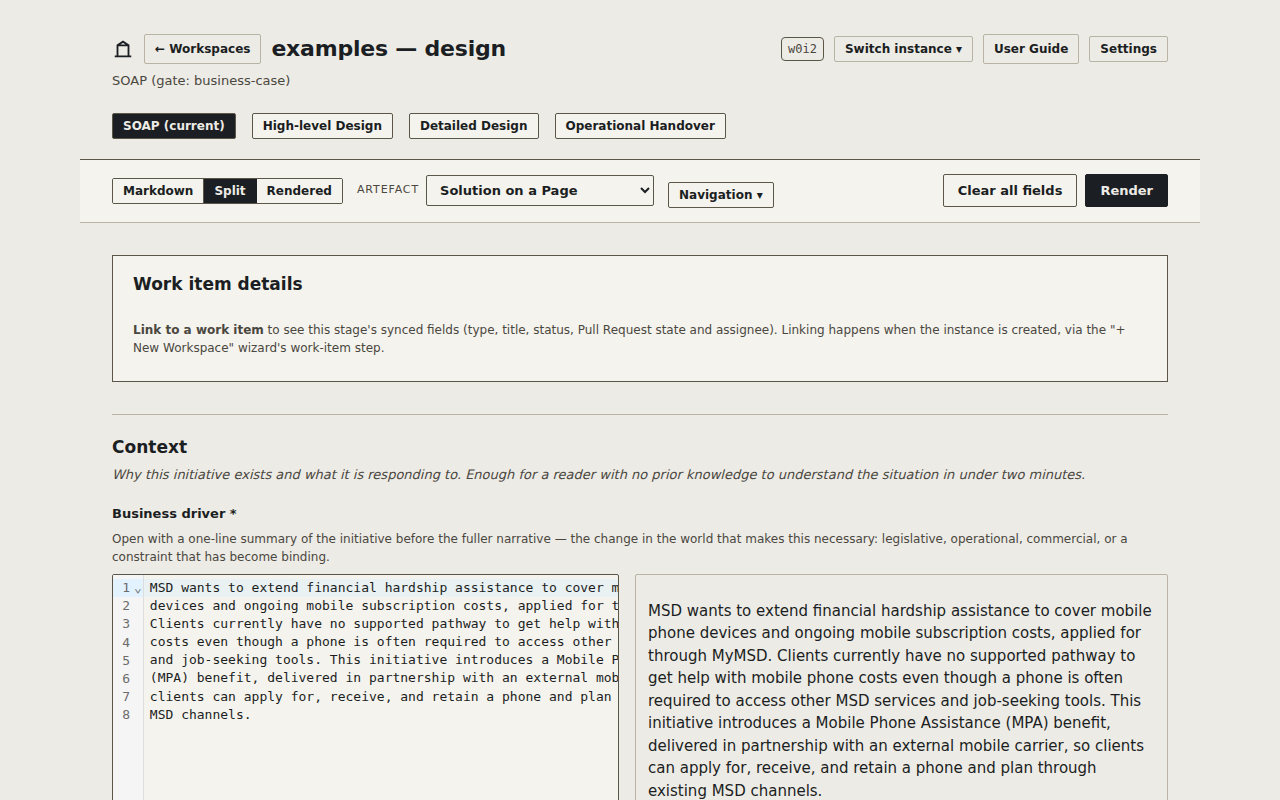
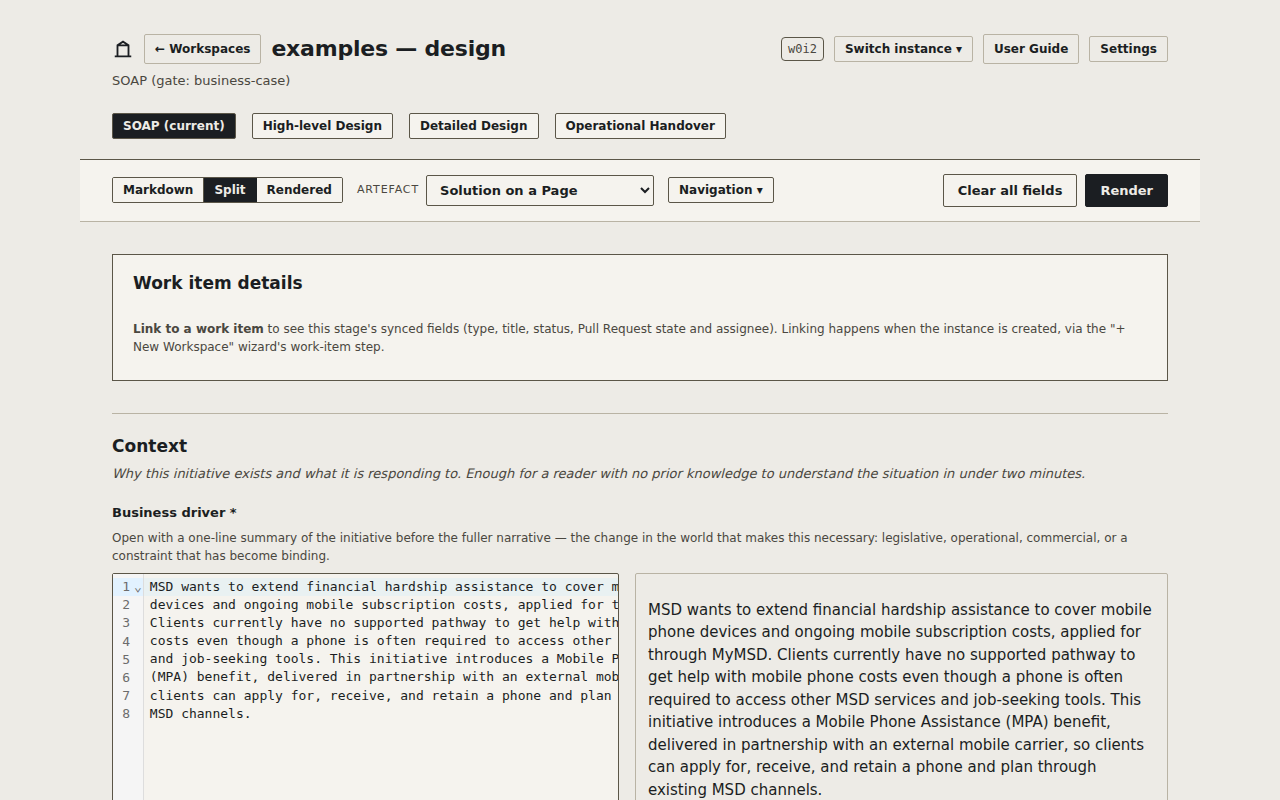
Merge pull request 22770 from wi-user-guide-image-lightbox into main

diff --git a/tests/user-guide.playwright.test.js b/tests/user-guide.playwright.test.js
@@ -83,17 +83,10 @@ test('User Guide: loads markdown content, ordered navigation, and definition-bac
       assert.match(await page.locator('.guide-content').textContent(), /Request Approval/)
       assert.match(await page.locator('.guide-content').textContent(), /Workspace Settings/)
       const guideText = await page.locator('.guide-content').textContent()
-      assert.match(guideText, /Describe the initiative's context, proposed solution, team, estimates/)
-      assert.match(guideText, /Describe the proposed solution in enough detail to be approved before detailed design/)
-      assert.match(guideText, /Describe the architecture, integration, data, quality, security, risk/)
-      assert.match(guideText, /Record what was built and the information needed to hand it over for operation/)
-      assert.match(guideText, /Summarise the initiative's context, solution, team and estimates for the business case/)
-      assert.match(guideText, /Provide a fuller summary with detailed scope/)
-      assert.match(guideText, /Present the proposed solution, alternatives, risks and open questions for approval/)
-      assert.match(guideText, /Describe the complete solution architecture and its requirements/)
-      assert.match(guideText, /Describe the solution's design and operational readiness for the teams/)
-      assert.match(guideText, /Record what was built and the final handover information needed for operational use/)
-      assert.match(guideText, /context\.driver/)
+      // The guide describes concepts at a high level and no longer enumerates the
+      // design definition's specific stages, artefacts, modules or fields.
+      assert.doesNotMatch(guideText, /Its exit gate is/)
+      assert.doesNotMatch(guideText, /context\.driver/)
       // New subsections added in WI222 second pass
       const h3Texts = await page.locator('.guide-content h3').allTextContents()
       assert.ok(h3Texts.includes('Choosing a definition version'))
@@ -126,6 +119,41 @@ test('User Guide: loads markdown content, ordered navigation, and definition-bac
         assert.match(ct, /image\/png/, `fetching ${src} should return image/png, got ${ct}`)
       }
       assert.deepEqual(pageErrors, [])
+    } finally {
+      await browser.close()
+    }
+  })
+})
+
+test('User Guide: screenshots fit the content column and open in a click-to-expand lightbox', async () => {
+  await withRunningServer(async (base) => {
+    const browser = await launchBrowser()
+    try {
+      const page = await browser.newPage()
+      page.setDefaultTimeout(DEFAULT_TIMEOUT)
+      await page.setViewportSize({ width: 1024, height: 800 })
+      await page.goto(`${base}/user-guide`)
+      await page.waitForSelector('.guide-content img', { timeout: DEFAULT_TIMEOUT })
+
+      // Every screenshot fits inside its content column, and the page never scrolls sideways.
+      const { maxImgWidth, contentWidth } = await page.evaluate(() => {
+        const imgs = [...document.querySelectorAll('.guide-content img')]
+        return {
+          maxImgWidth: Math.max(...imgs.map((img) => img.getBoundingClientRect().width)),
+          contentWidth: document.querySelector('.guide-content').getBoundingClientRect().width,
+        }
+      })
+      assert.ok(maxImgWidth <= contentWidth + 1, `widest image ${maxImgWidth}px should fit content column ${contentWidth}px`)
+      assert.ok(
+        await page.evaluate(() => document.documentElement.scrollWidth <= document.documentElement.clientWidth + 1),
+        'the guide page must not scroll horizontally',
+      )
+
+      // Clicking a screenshot opens it in the lightbox; Escape closes it.
+      await page.locator('.guide-content img').first().click()
+      await page.waitForSelector('.guide-lightbox img', { timeout: 5_000 })
+      await page.keyboard.press('Escape')
+      await page.waitForSelector('.guide-lightbox', { state: 'detached', timeout: 5_000 })
     } finally {
       await browser.close()
     }

diff --git a/web/pages/user-guide.js b/web/pages/user-guide.js
@@ -1,5 +1,5 @@
 import { html } from 'htm/preact'
-import { useEffect, useState } from 'preact/hooks'
+import { useEffect, useRef, useState } from 'preact/hooks'
 import { apiFetch } from '../lib/apiFetch.js'
 import { renderMarkdown } from '../lib/markdown.js'
 
@@ -42,6 +42,9 @@ function GuideNavigation() {
 export function UserGuidePage() {
   const [guide, setGuide] = useState(null)
   const [error, setError] = useState(null)
+  // The screenshot the reader clicked, shown full-size in an overlay. `null` when closed.
+  const [zoomed, setZoomed] = useState(null)
+  const contentRef = useRef(null)
 
   useEffect(() => {
     let active = true
@@ -62,6 +65,34 @@ export function UserGuidePage() {
     }
   }, [])
 
+  // The guide body is injected as raw HTML, so its <img> elements can't carry
+  // preact props — decorate them for keyboard/AT once the markup is in the DOM.
+  useEffect(() => {
+    if (guide === null || !contentRef.current) return
+    for (const img of contentRef.current.querySelectorAll('img')) {
+      img.setAttribute('role', 'button')
+      img.setAttribute('tabindex', '0')
+      if (!img.getAttribute('title')) img.setAttribute('title', 'Click to enlarge')
+    }
+  }, [guide])
+
+  useEffect(() => {
+    if (!zoomed) return
+    function onKey(e) {
+      if (e.key === 'Escape') setZoomed(null)
+    }
+    window.addEventListener('keydown', onKey)
+    return () => window.removeEventListener('keydown', onKey)
+  }, [zoomed])
+
+  function activateImage(e) {
+    const img = e.target?.closest?.('img')
+    if (!img || !contentRef.current?.contains(img)) return
+    if (e.type === 'keydown' && e.key !== 'Enter' && e.key !== ' ') return
+    if (e.type === 'keydown') e.preventDefault()
+    setZoomed({ src: img.currentSrc || img.src, alt: img.alt || '' })
+  }
+
   return html`
     <header class="guide-header">
       <div class="brand">
@@ -77,8 +108,25 @@ export function UserGuidePage() {
           ? html`<p class="load-error">Failed to load: ${error}</p>`
           : guide === null
             ? html`<p class="loading">Loading User Guide…</p>`
-            : html`<div dangerouslySetInnerHTML=${{ __html: guide }} />`}
+            : html`<div
+                ref=${contentRef}
+                onClick=${activateImage}
+                onKeyDown=${activateImage}
+                dangerouslySetInnerHTML=${{ __html: guide }}
+              />`}
       </article>
     </main>
+    ${zoomed
+      ? html`<div
+          class="guide-lightbox"
+          role="dialog"
+          aria-modal="true"
+          aria-label=${zoomed.alt || 'Expanded screenshot'}
+          onClick=${() => setZoomed(null)}
+        >
+          <img src=${zoomed.src} alt=${zoomed.alt} />
+          <button type="button" class="guide-lightbox-close" aria-label="Close" onClick=${() => setZoomed(null)}>×</button>
+        </div>`
+      : null}
   `
 }

diff --git a/web/style.css b/web/style.css
@@ -493,6 +493,9 @@ button.btn:disabled { opacity: 0.4; cursor: not-allowed; }
 
 /* Stage navigation dropdown (WI232) — inline in ViewModeToolbar to the right of the artefact selector */
 .stage-navigation { margin: 0; display: inline-flex; align-items: center; }
+/* Neutralise .btn's default 0.5rem top/right margin so the trigger sits on the
+   same baseline as the segmented view-mode buttons (which reset it too). */
+.stage-navigation .btn { margin: 0; }
 .stage-navigation-dropdown { position: relative; display: inline-flex; }
 .stage-navigation-dropdown .menu {
   display: none;
@@ -1246,6 +1249,46 @@ input.text-field.has-error { border-color: var(--stamp-error-bg); }
 .guide-content ul { margin: 0 0 18px; padding-left: 22px; }
 .guide-content li { margin: 5px 0; }
 .guide-content code { font-family: var(--font-mono); font-size: 0.9em; }
+.guide-content img {
+  display: block;
+  max-width: 100%;
+  height: auto;
+  margin: 10px 0 22px;
+  border: var(--hairline) solid var(--line);
+  border-radius: var(--radius);
+  cursor: zoom-in;
+}
+.guide-content img:focus-visible { outline: 2px solid currentColor; outline-offset: 3px; }
+
+.guide-lightbox {
+  position: fixed;
+  inset: 0;
+  z-index: 1000;
+  display: flex;
+  align-items: center;
+  justify-content: center;
+  padding: 32px;
+  background: rgba(0, 0, 0, 0.82);
+  cursor: zoom-out;
+}
+.guide-lightbox img {
+  max-width: 100%;
+  max-height: 100%;
+  border-radius: var(--radius);
+  box-shadow: 0 12px 48px rgba(0, 0, 0, 0.5);
+}
+.guide-lightbox-close {
+  position: fixed;
+  top: 14px;
+  right: 20px;
+  padding: 6px 10px;
+  font-size: 26px;
+  line-height: 1;
+  color: #fff;
+  background: none;
+  border: none;
+  cursor: pointer;
+}
 
 @media (max-width: 760px) {
   .app-header .brand { flex-wrap: wrap; }

diff --git a/docs/user-guide/index.md b/docs/user-guide/index.md
@@ -47,7 +47,7 @@ Workspaces and instances can be archived — hidden from the dashboard's default
 
 ### Definition versions and the Definition Editor (experimental)
 
-Definitions are versioned. Version 1 of `design` is published and is the default for new instances; newer versions start as `draft`. Each version has its own `definition.yaml`, module specs, templates and `CHANGELOG.md`. Only the latest published version is used when no explicit version is requested; draft versions are opt-in via the wizard's version picker.
+Definitions are versioned. The first version of a definition is published and is the default for new instances; newer versions start as `draft`. Each version has its own `definition.yaml`, module specs, templates and `CHANGELOG.md`. Only the latest published version is used when no explicit version is requested; draft versions are opt-in via the wizard's version picker.
 
 The **Definition Editor** — linked from the Workspaces page header as **Definition Editor** — is an experimental, rudimentary screen for inspecting and editing definitions. It is explicitly experimental and rudimentary: the screen carries a disclaimer to that effect, and the editing experience is not yet at parity with hand-editing the YAML and templates.
 
@@ -67,15 +67,13 @@ A **Gate** is the decision point at the end of a Stage. A gate checks the artefa
 
 For a Workspace-backed Instance the gate is checked as part of the Work Item Detail card's **Check status** action; a local Instance checks it with **Check gate & sync work item**. See *Approval workflow* for the full sequence.
 
-The `design` Definition has these stages:
-
-<!-- GANTRY-DESIGN-STAGES -->
+A definition lists its stages, and the gate each one ends at, in its `definition.yaml`. The `design` definition, for instance, runs from initial shaping through high-level and detailed design to operational handover, each stage ending at its own gate.
 
 ## Modules & Fields
 
-A **Module** is a self-contained area of process content and the source of truth for that content. A Module is made up of **Fields**, which are the individual prompts shown in the editor. The `design` Definition combines those fields into documents later, rather than asking authors to maintain separate copies in each document.
+A **Module** is a self-contained area of process content and the source of truth for that content. A Module is made up of **Fields**, which are the individual prompts shown in the editor. A definition combines those fields into documents later, rather than asking authors to maintain separate copies in each document.
 
-For example, the `context` Module can ask for the initiative's driver, opportunity and scope. The `driver` Field records why the work is needed; it is not a separate document. In the same way, a security Module can capture the solution's security considerations in its own fields. Each field can have guidance and can be required at the gate where it matters.
+For example, one module might capture an initiative's context as separate fields — its driver, the opportunity, what is out of scope — and another might capture security considerations. A field is authored once and reused wherever an artefact needs it, never copied between documents. Each field can carry guidance and can be required only at the gate where it matters.
 
 You normally work through the editor's Module cards and save each Module as you complete it. The available Modules depend on the current Stage, while an artefact's own requirements decide whether that artefact is complete. This lets one set of content support multiple outputs without duplicating authoring work.
 
@@ -97,9 +95,7 @@ An **Artefact** is a rendered output such as a summary, design document or hando
 
 Each artefact declares the module or field content it `requires`. Those requirements determine whether that artefact is complete for its gate. Multiple artefacts can therefore render different views of the same modules without asking authors to duplicate content.
 
-The `design` Definition has these artefacts:
-
-<!-- GANTRY-DESIGN-ARTEFACTS -->
+A definition lists its artefacts in `definition.yaml`, each with the gate it renders at and the module or field content it `requires`. One definition can declare several artefacts over the same modules — a short summary and a fuller specification, say — without duplicating any authored content.
 
 ### Rendering
 
